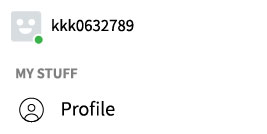
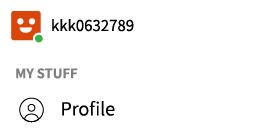
change user photo

Changed region(s): [[0.03, 0.0597, 0.1798, 0.3284]]

diff --git a/comment.html b/comment.html
@@ -61,6 +61,9 @@
 							<img src="img/message.png">
 						</p>
 					`
+					if (id.value === 'u/kkk0632789') {
+						newItem.classList.add('red');
+					}
 
 					document.querySelector('.comment').appendChild(newItem);
 					id.value = '';
